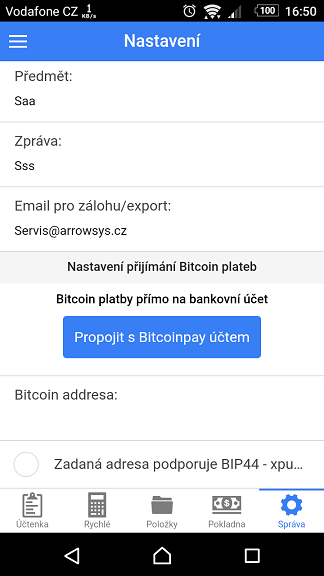
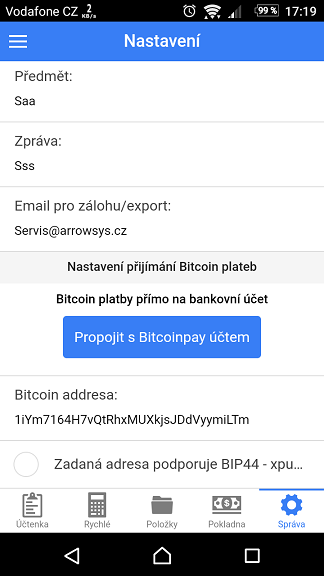
Updates settings_settings/bitcoin.md
Auto commit by GitBook Editor

Changed region(s): [[0.0309, 0.7188, 0.7716, 0.75], [0.8951, 0.0, 0.9877, 0.0312], [0.8025, 0.0, 0.8642, 0.0312]]

diff --git a/settings_settings/bitcoin.md b/settings_settings/bitcoin.md
@@ -1,0 +1,53 @@
+### BITCOIN
+
+### Přijímání plateb BITCOIN
+
+Platba pomocí kryptoměny BITCOIN, kdy se jedná pouze o převádění BITCOINů mezi jednotlivými peněženkami. Transakce jsou prováděny pouze v Bitcoinech.
+
+### BITCOIN peněženka - získání BITCOIN ADRESY
+
+Slouží k přijímání a odesílání BITCOIN mezi uživateli. Pro propojení s pokladnou LILKA je nutné získat veřejný kód na obrázku níže. Ten se následně zadá do pole **"BITCOIN ADRESA"**
+
+Veřejný kód slouží pouze k přijímání nikoli odesílání, tudíž nehrozí ke ztrátě Bitcoinů z pokladního zařízení.
+
+#### **Postup získání kódu:**
+
+1. Spusťte ve vašem ANDROID zařízení **"OBCHOD PLAY"**.
+2. vyhledejte aplikaci **"BITCOIN WALLET"** a nainstalujte ji. Pokud již Bitcoin peněženku máte spusťte ji.
+3. Spusťte **"BITCOIN WALLET" **nebo Vaši peněženku.
+4. V pravém horním rohu stiskněte ikonku s QR kódem.
+5. Spusťte pokladnu **LILKA**.
+6. Přejděte do záložky **"SPRÁVA-&gt;NASTAVENÍ"**.
+7. Získaný kód opište do kolonky **"BITCOIN ADRESA"**.
+8. Uložte.
+
+![](/assets/SPRAVA-NASTAVENI-BITCOIN3.png)
+
+**Postup nastavení:**
+
+1. Přejděte v pokladně LILKA do "SPRÁVA-&gt;NASTAVENÍ".
+2. Do pole BITCOIN ADRESA zadejte adresu peněženky.
+3. Překlikněte na jinou záložku pro uložení nastavení.
+
+Pokud používáte BIP44 adresy, můžete ji vyplnit přímo do pole **"BITCOIN ADRESA"**. Poté je nutné zaškrtnout tlačítko **"Zadaná adresa podporuje BIP44 - xpub musí být m´/44´/0´/0´"**.
+
+
+
+![](/assets/SPRAVA-NASTAVENI-BITCOIN2.png)
+
+### Přijímání plateb BITCOIN s přímým převodem do Kč na bankovní účet
+
+Platba pomocí BITCOIN měny přímo na účet. Pokud nemáte ještě založený BITCOINPAY účet, lze jej založit na [www.bitcoinpay.com](https://www.bitcoinpay.com/cs/). Jedná se o variantu, kdy platba je provedena přes Bitcoin bránu, která místo Vás přijme Bitcoin a následně jej převede na Váš účet v libovolné měně\(Kč, EUR, PLN\).
+
+**Postup propojení:**
+
+1. Vyplňte API klíč.
+2. Zadejte CALLBACK heslo.
+3. Stiskněte **"ULOŽIT".**
+
+![](/assets/SPRAVA-NASTAVENI-BITCOIN.png)
+
+### 
+
+
+

diff --git a/settings_settings.md b/settings_settings.md
@@ -35,59 +35,7 @@ Podporované klienty pro odesílání na email:
 
 \*Pokud potřebujete opět tisknout na Bluetooth tiskárnu, je nutné zaškrtnout v záložce **"SPRÁVA-&gt;TISKÁRNA"** pole **"POVOLIT TISK NA BLUETOOTH TISKÁRNU"**.
 
-
-
-### BITCOIN
-
-### Transakce v rámci BITCOIN - BITCOIN plateb
-
-Platba pomocí kryptoměny BITCOIN, kdy se jedná pouze o převádění BITCOINů mezi jednotlivými peněženkami. Transakce jsou prováděny pouze v Bitcoinech.
-
-**Postup nastavení:**
-
-1. Do pole BITCOIN ADRESA zadejte adresu peněženky.
-2. Překlikněte na jinou záložku pro uložení nastavení.
-
-Zadaná adresa podporuje BIP44 - xpub musí být m´/44´/0´/0´
-
-![](/assets/SPRAVA-NASTAVENI-BITCOIN2.png)
-
-### Propojení s BITCOIN účtem - transakce přes platební bránu
-
-Platba pomocí BITCOIN měny přímo na účet. Pokud nemáte ještě založený účet, lze jej zalozžit na www.bitcoinpay.com. Jedná se o variantu, kdy platba je provedena přes BITCOIN bránu, která automaticky pošle na účet BITCOIN převedený na českou měnu. Jinými slovy na účet přijde částka v Kč.
-
-**Postup propojení:**
-
-1. Vyplňte API klíč.
-2. Zadejte CALLBACK heslo.
-3. Stiskněte **"ULOŽIT".**
-
-![](/assets/SPRAVA-NASTAVENI-BITCOIN.png)
-
-
-
-### BITCOIN peněženka
-
-Slouží k přijímání a odesílání BITCOIN mezi uživateli. Pro propojení s pokladnou LILKA je nutné získat kód na obrázku níže. Ten se následně zadá do pole "BITCOIN ADRESA"
-
-Postup získání kódu:
-
-1. Spusťte ve vašem ANDROID zařízení "OBCHOD PLAY".
-2. vyhledejte aplikaci **"BITCOIN WALLET"** a nainstalujte ji.
-3. Spusťte **"BITCOIN WALLET"**.
-4. V pravém horním rohu stiskněte ikonku s QR kódem.
-5. Spusťte pokladnu **LILKA**.
-6. Přejděte do záložky **"SPRÁVA-&gt;NASTAVENÍ"**.
-7. Získaný kód opište do kolonky **"BITCOIN ADRESA"**.
-8. Uložte.
-
-
-
-![](/assets/SPRAVA-NASTAVENI-BITCOIN3.png)
-
-
-
-
+### 
 
 
 

diff --git a/SUMMARY.md b/SUMMARY.md
@@ -27,6 +27,7 @@
   * [Prodej použitého zboží](prodej-pouziteho-zbozi.md)
 * [Správa](sprava.md)
   * [Informace o firmě](informace-o-firme.md)
+  * [Bitcoin](settings_settings/bitcoin.md)
   * [Účty](settings_accounts.md)
   * [Daňové sazby](settings_taxesrates.md)
   * [Skupiny](settings_groups.md)
